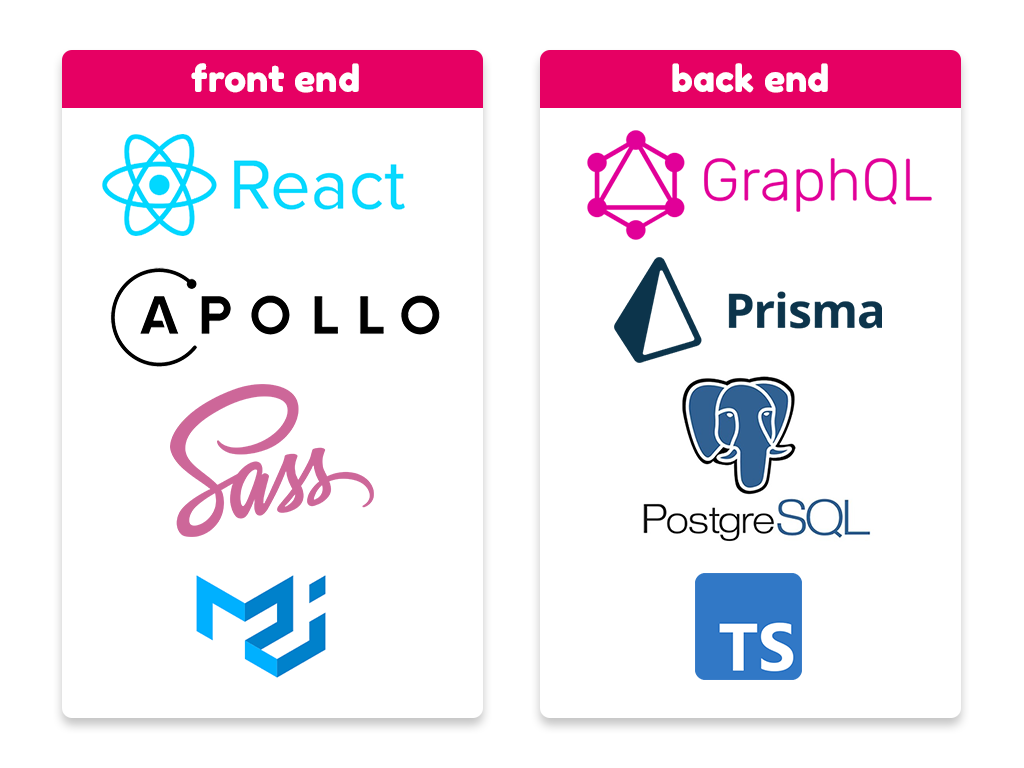
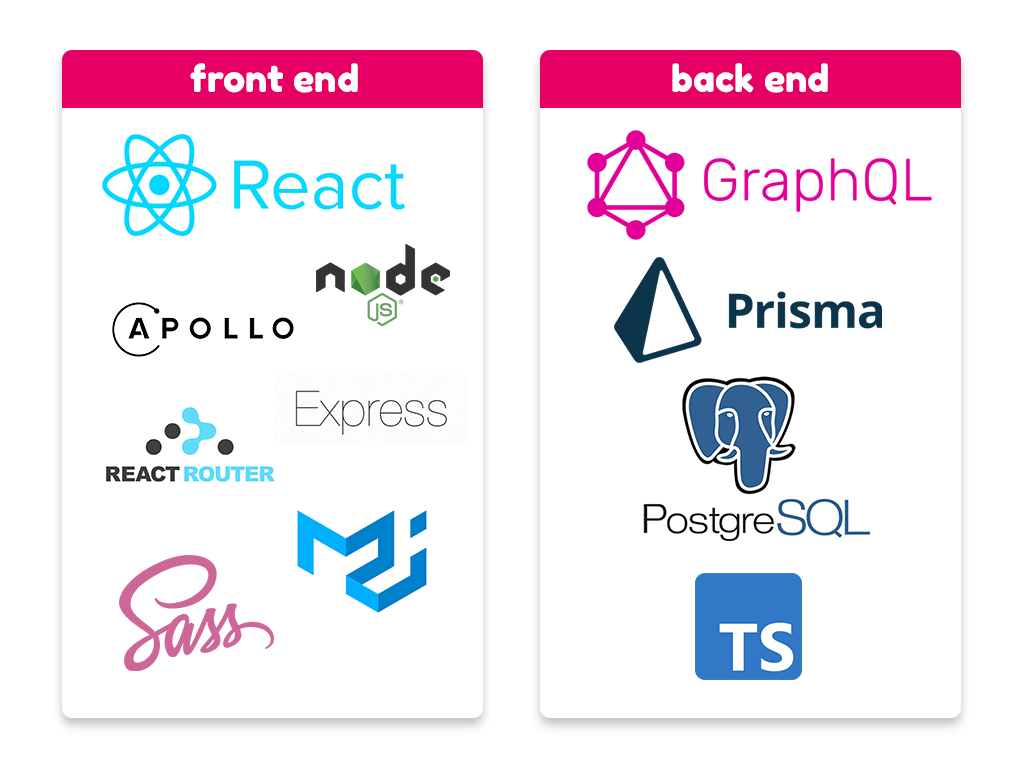
completed about page

Changed region(s): [[0.0938, 0.5, 0.4375, 0.875], [0.0938, 0.3125, 0.4375, 0.5], [0.1875, 0.0938, 0.3438, 0.125]]

diff --git a/final-project-fe/src/pages/AboutPage.js b/final-project-fe/src/pages/AboutPage.js
@@ -2,9 +2,10 @@ import React from 'react';
 
 export default function AboutPage() {
   return (
-    <section className='homePage'>
-      <img src="./images/slide-logo.png"></img>
-      <img src="./images/slide-tech-stack.png"></img>
+    <section className='homePage' >
+      <img src="./images/slide-logo.png" style={{ maxWidth: '40em', marginTop: '10em' }}></img>
+      <img src="./images/slide-profiles.png"></img>
+      <img src="./images/slide-tech-stack.png" style={{ maxWidth: '50em', marginBottom: '10em' }}></img>
     </section>
   );
 }

diff --git a/final-project-fe/src/components/Header.js b/final-project-fe/src/components/Header.js
@@ -173,6 +173,15 @@ export default function Header({ loggedIn, logout }) {
                 <Divider light />
                 <MenuItem
                   onClick={() => {
+                    setAnchorEl(null);
+                    history.push('/about');
+                  }}
+                >
+                  About
+                </MenuItem>
+                <Divider light />
+                <MenuItem
+                  onClick={() => {
                     handleClose();
                     logout();
                   }}
